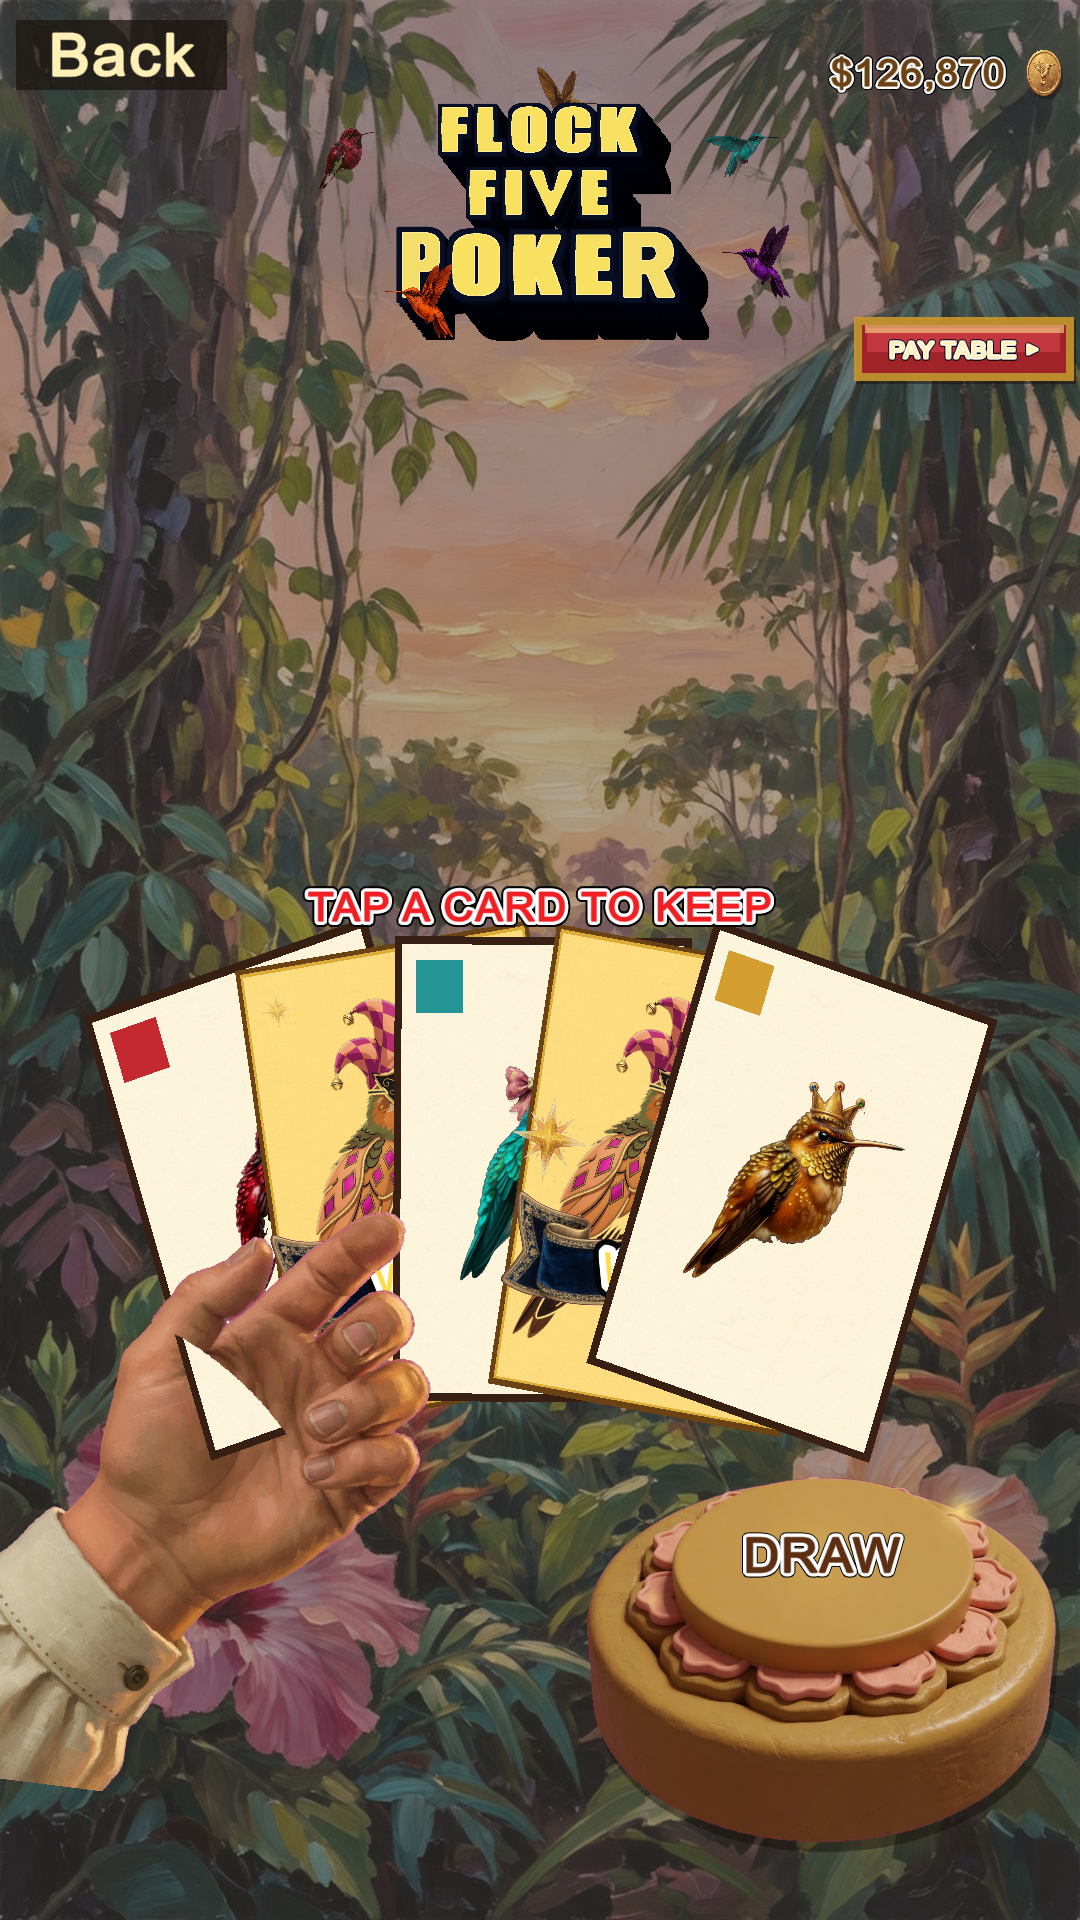
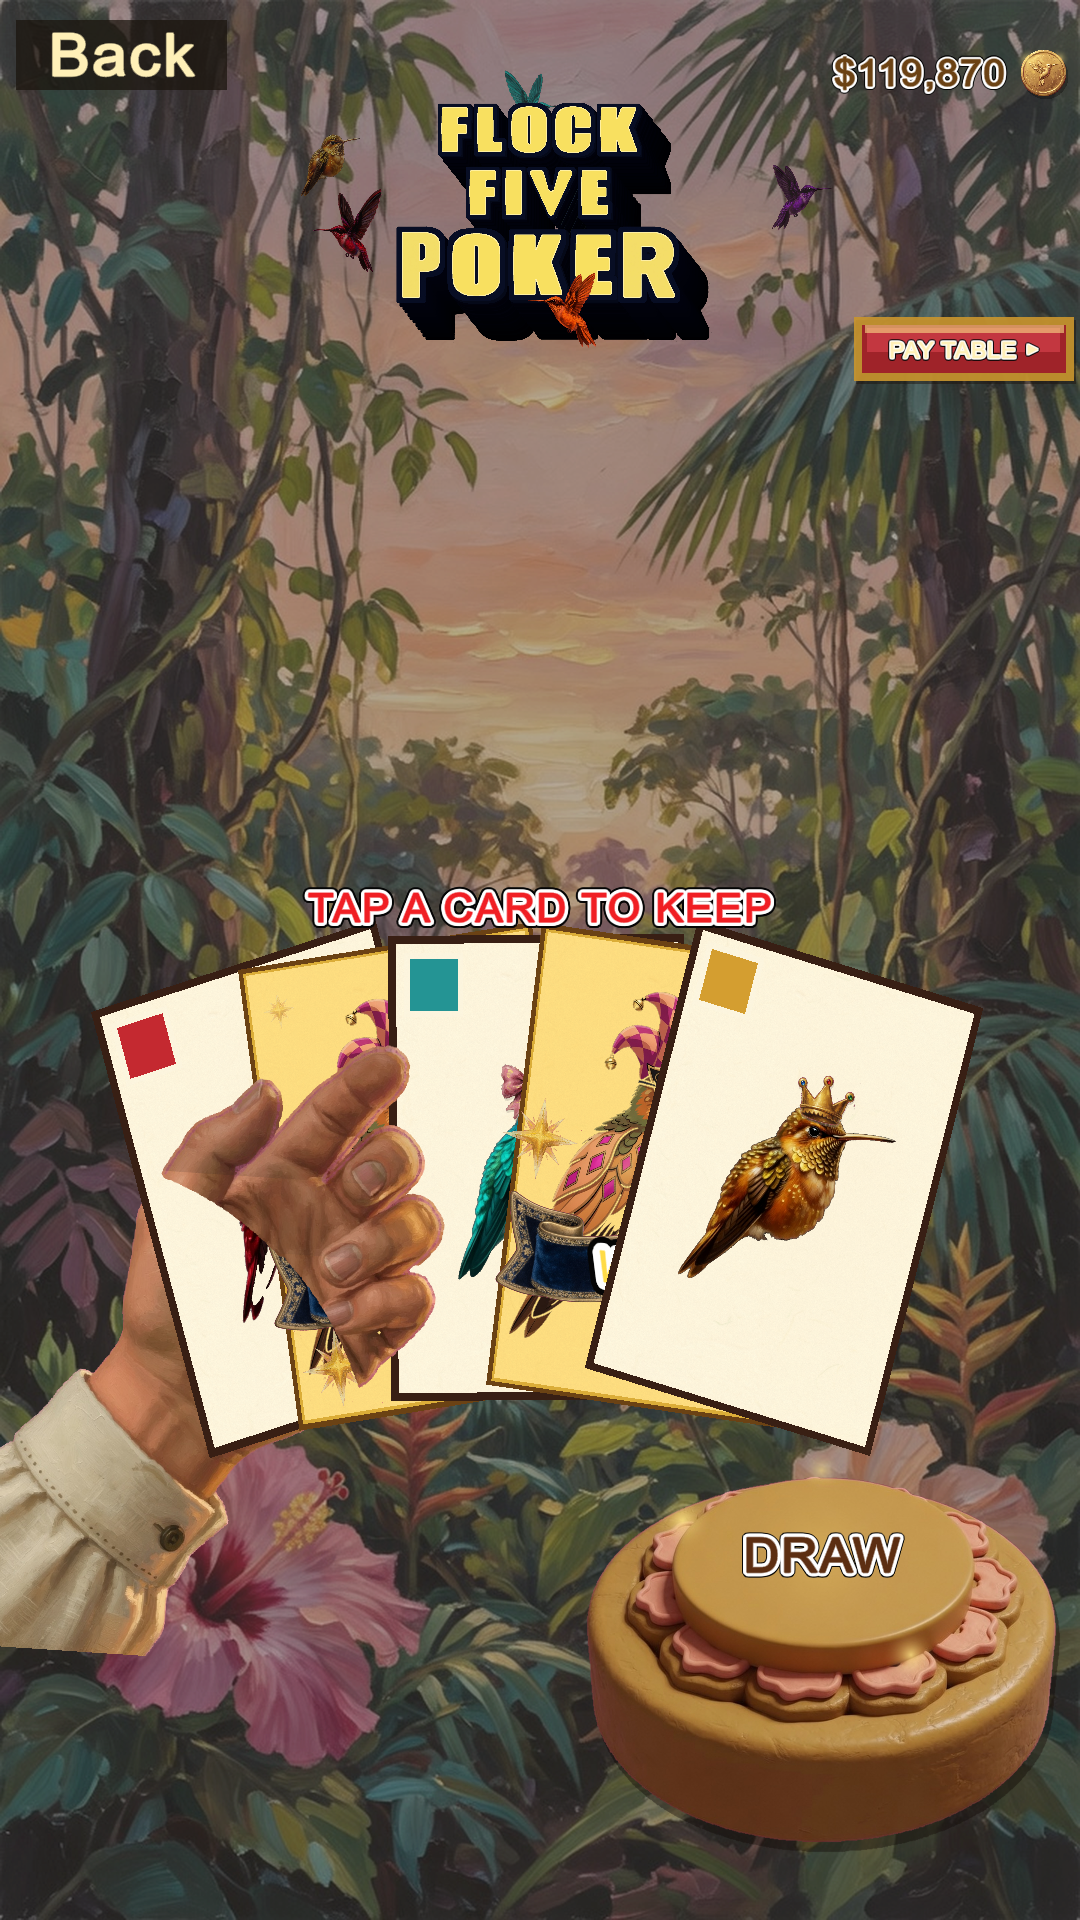
Poker: pass 2 hold — pads on cards, no card-through-hand
Pinch at the finger pads instead of the palm so cards sit in the grip
instead of through the hand. Thicken front pads with a darker contact
shade (binary alpha). Cards ride the same breath as the hand so they
do not swim through fingers. Avoid layout kept.

diff --git a/Assets/_Project/Scripts/App/FlockFiveApp.cs b/Assets/_Project/Scripts/App/FlockFiveApp.cs
@@ -1011,7 +1011,7 @@ namespace FlockFive
         {
             System.IO.Directory.CreateDirectory(dir);
             SpriteCatalog.DropPokerArt();
-            Debug.Log("Flock Five: ShotPokerFaces start " + dir);
+            Debug.Log("Flock Five: ShotPokerFaces start " + dir + " pass2-hold-b");
             _home = HomeFace.Poker;
             _splash = true;
             _pokerPayOpen = false;
@@ -4892,9 +4892,13 @@ namespace FlockFive
         const float DealBumpT = 0.24f;
         const float PokerFanScale = 1.42f;
         const float PokerFanSpan = 0.46f;
-        const float PokerFanPinchU = 0.40f;
-        const float PokerFanPinchV = 0.45f;
+        // Finger pads, not palm — palm at 0.40/0.45 put cards through the hand.
+        const float PokerFanPinchU = 0.56f;
+        const float PokerFanPinchV = 0.64f;
         const float PokerFanHandAspect = 0.80f;
+
+        static float PokerAliveBreathe() => Mathf.Sin(Time.unscaledTime * 1.18f);
+        static float PokerAliveTick() => Mathf.Sin(Time.unscaledTime * 2.02f);
 
         void TryPokerDeal()
         {
@@ -5180,8 +5184,10 @@ namespace FlockFive
             float x = x0 + span * t;
             float mid = 1f - Mathf.Abs(t * 2f - 1f);
             float y = row.y + row.height * 2.12f - mid * 12f + bump;
-            float life = Mathf.Sin(Time.unscaledTime * 1.55f + fanIndex * 1.27f) * 2.4f;
-            x += Mathf.Sin(Time.unscaledTime * 0.82f + fanIndex * 0.91f) * 0.8f;
+            float breathe = PokerAliveBreathe();
+            // Ride the hand's breath. Independent bob made cards swim through fingers.
+            x += breathe * 0.55f;
+            float life = breathe * 1.05f;
             return new Rect(x, y + life, cardW, cardH);
         }
 
@@ -5192,7 +5198,7 @@ namespace FlockFive
             if (BirdPoker.Hold[i] || fanCount <= 0)
                 return PokerFanRollAt(i / (float)(BirdPoker.HandSize - 1));
             float t = fanCount <= 1 ? 0.5f : slot / (float)(fanCount - 1);
-            return PokerFanRollAt(t) + Mathf.Sin(Time.unscaledTime * 1.18f + i * 0.73f) * 1.8f;
+            return PokerFanRollAt(t) + PokerAliveBreathe() * 0.40f;
         }
 
         float PokerFanRollAt(float t) => Mathf.Lerp(-16f, 16f, t);
@@ -5404,20 +5410,20 @@ namespace FlockFive
             float h = fanH * 2.05f;
             float w = h * PokerFanHandAspect;
             float alive = u;
-            float breathe = Mathf.Sin(Time.unscaledTime * 1.32f);
-            float tick = Mathf.Sin(Time.unscaledTime * 2.55f);
-            float pinchX = row.center.x - Screen.width * 0.06f + _pokerKick.x + 2.2f * breathe * alive;
-            // Fingers wrap the fan bottoms — cards sit in the grip.
-            float pinchY = grip.yMax - grip.height * 0.08f + _pokerKick.y
-                + (3.2f * breathe + 1.4f * tick) * alive;
+            float breathe = PokerAliveBreathe();
+            float tick = PokerAliveTick();
+            // Pads land on the remaining fan (tracks 1-card unhold, not row-center).
+            float pinchX = grip.center.x - grip.width * 0.10f + _pokerKick.x + 1.5f * breathe * alive;
+            float pinchY = grip.yMax - grip.height * 0.04f + _pokerKick.y
+                + (1.7f * breathe + 0.55f * tick) * alive;
             float x = pinchX - w * PokerFanPinchU;
             float y = pinchY - h * PokerFanPinchV + (1f - u) * h * 0.35f;
             float flowerLeft = Screen.width * 0.52f;
             if (x + w > flowerLeft)
                 x = flowerLeft - w;
             if (x < -w * 0.08f) x = -w * 0.08f;
-            float ang = 5.5f + 2.4f * breathe * alive;
-            float squash = 1f + 0.016f * breathe * alive;
+            float ang = 4.8f + 1.15f * breathe * alive;
+            float squash = 1f + 0.010f * breathe * alive;
             var prev = GUI.matrix;
             GUIUtility.RotateAroundPivot(ang, new Vector2(pinchX, pinchY));
             GUIUtility.ScaleAroundPivot(new Vector2(squash, 2f - squash), new Vector2(pinchX, pinchY));
